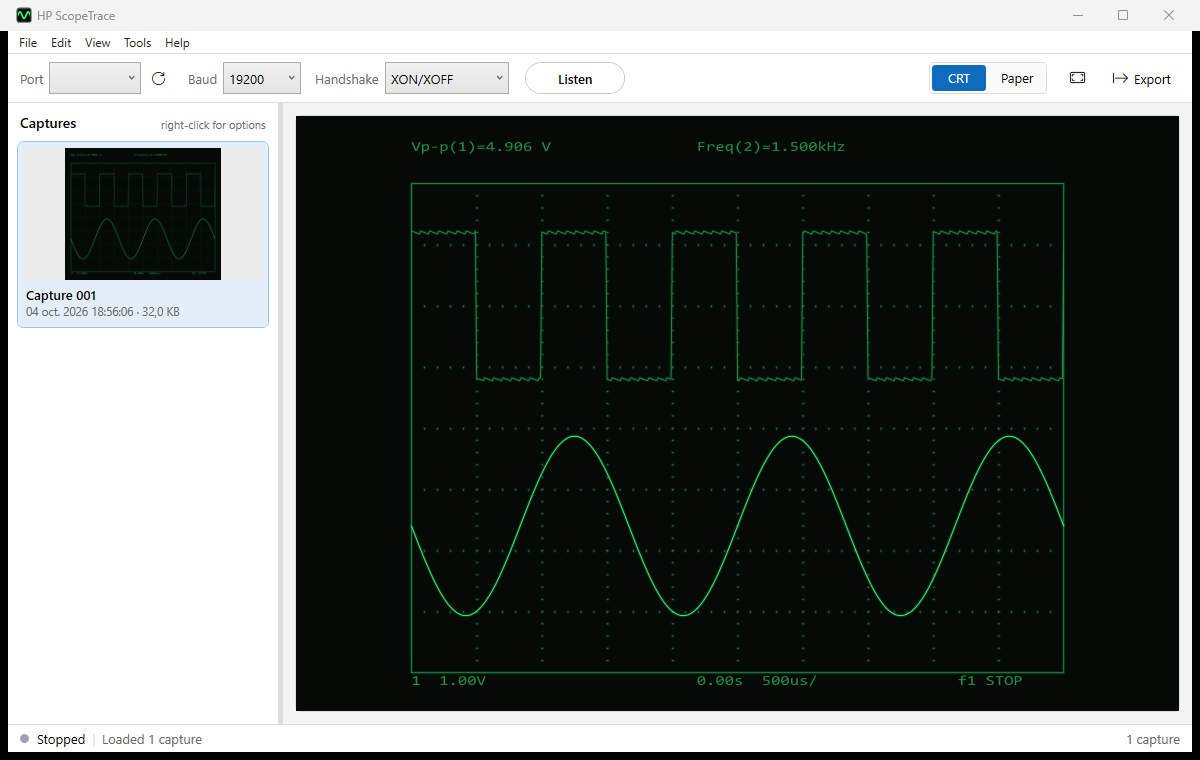
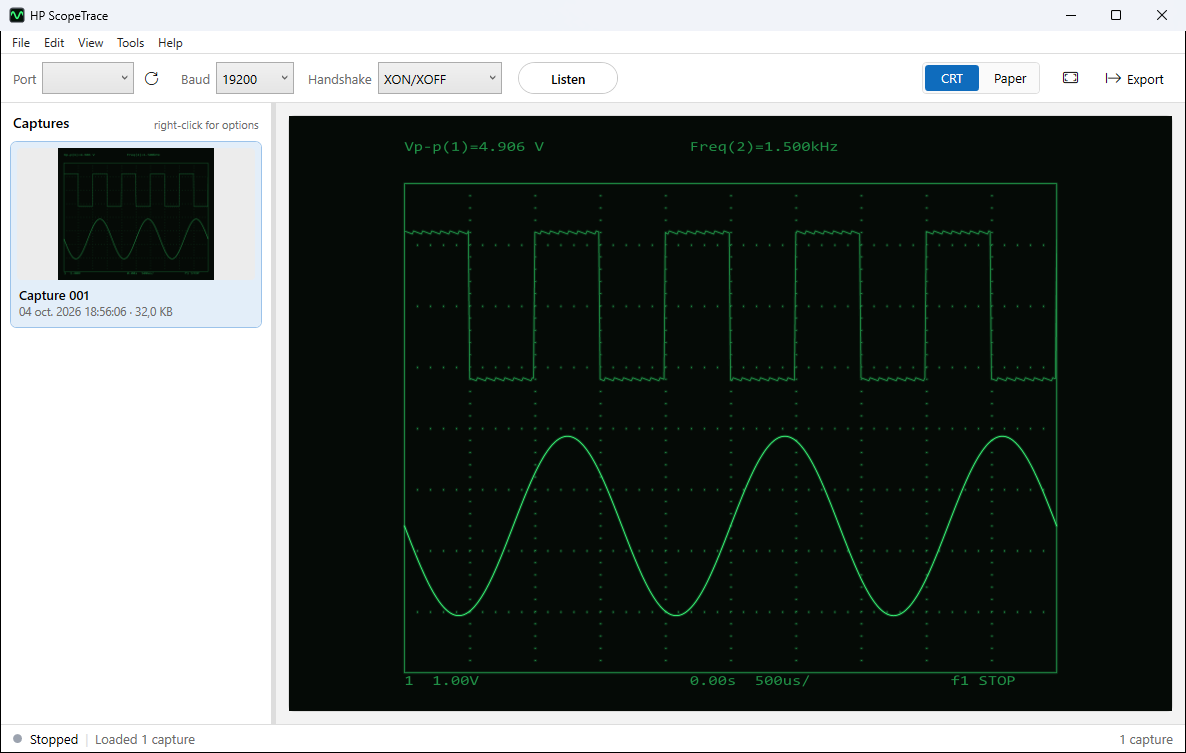
Bundle WPF native libraries in the single-file exe, fix README screenshot

diff --git a/RELEASE_NOTES.md b/RELEASE_NOTES.md
@@ -1,8 +1,5 @@
-First release.
-
-- Receives HP-GL screen plots from HP 54600 series scopes over RS-232 and draws them live
-- 1200 to 19200 baud, XON/XOFF or DTR handshake
-- CRT and paper themes
-- Export to PNG, SVG or the original HP-GL file
+- Fixed: the exe could not start on its own on some PCs (missing WPF native libraries). It is now a true single-file exe.
 
 Download `ScopeTrace.exe` below and run it, no install needed (64-bit Windows 10/11). The exe is not signed yet, so SmartScreen may show a warning the first time: click *More info* then *Run anyway*.
+
+Features: live drawing of HP-GL screen plots from HP 54600 series scopes over RS-232, 1200 to 19200 baud, XON/XOFF or DTR handshake, CRT and paper themes, export to PNG, SVG or the original HP-GL file.
